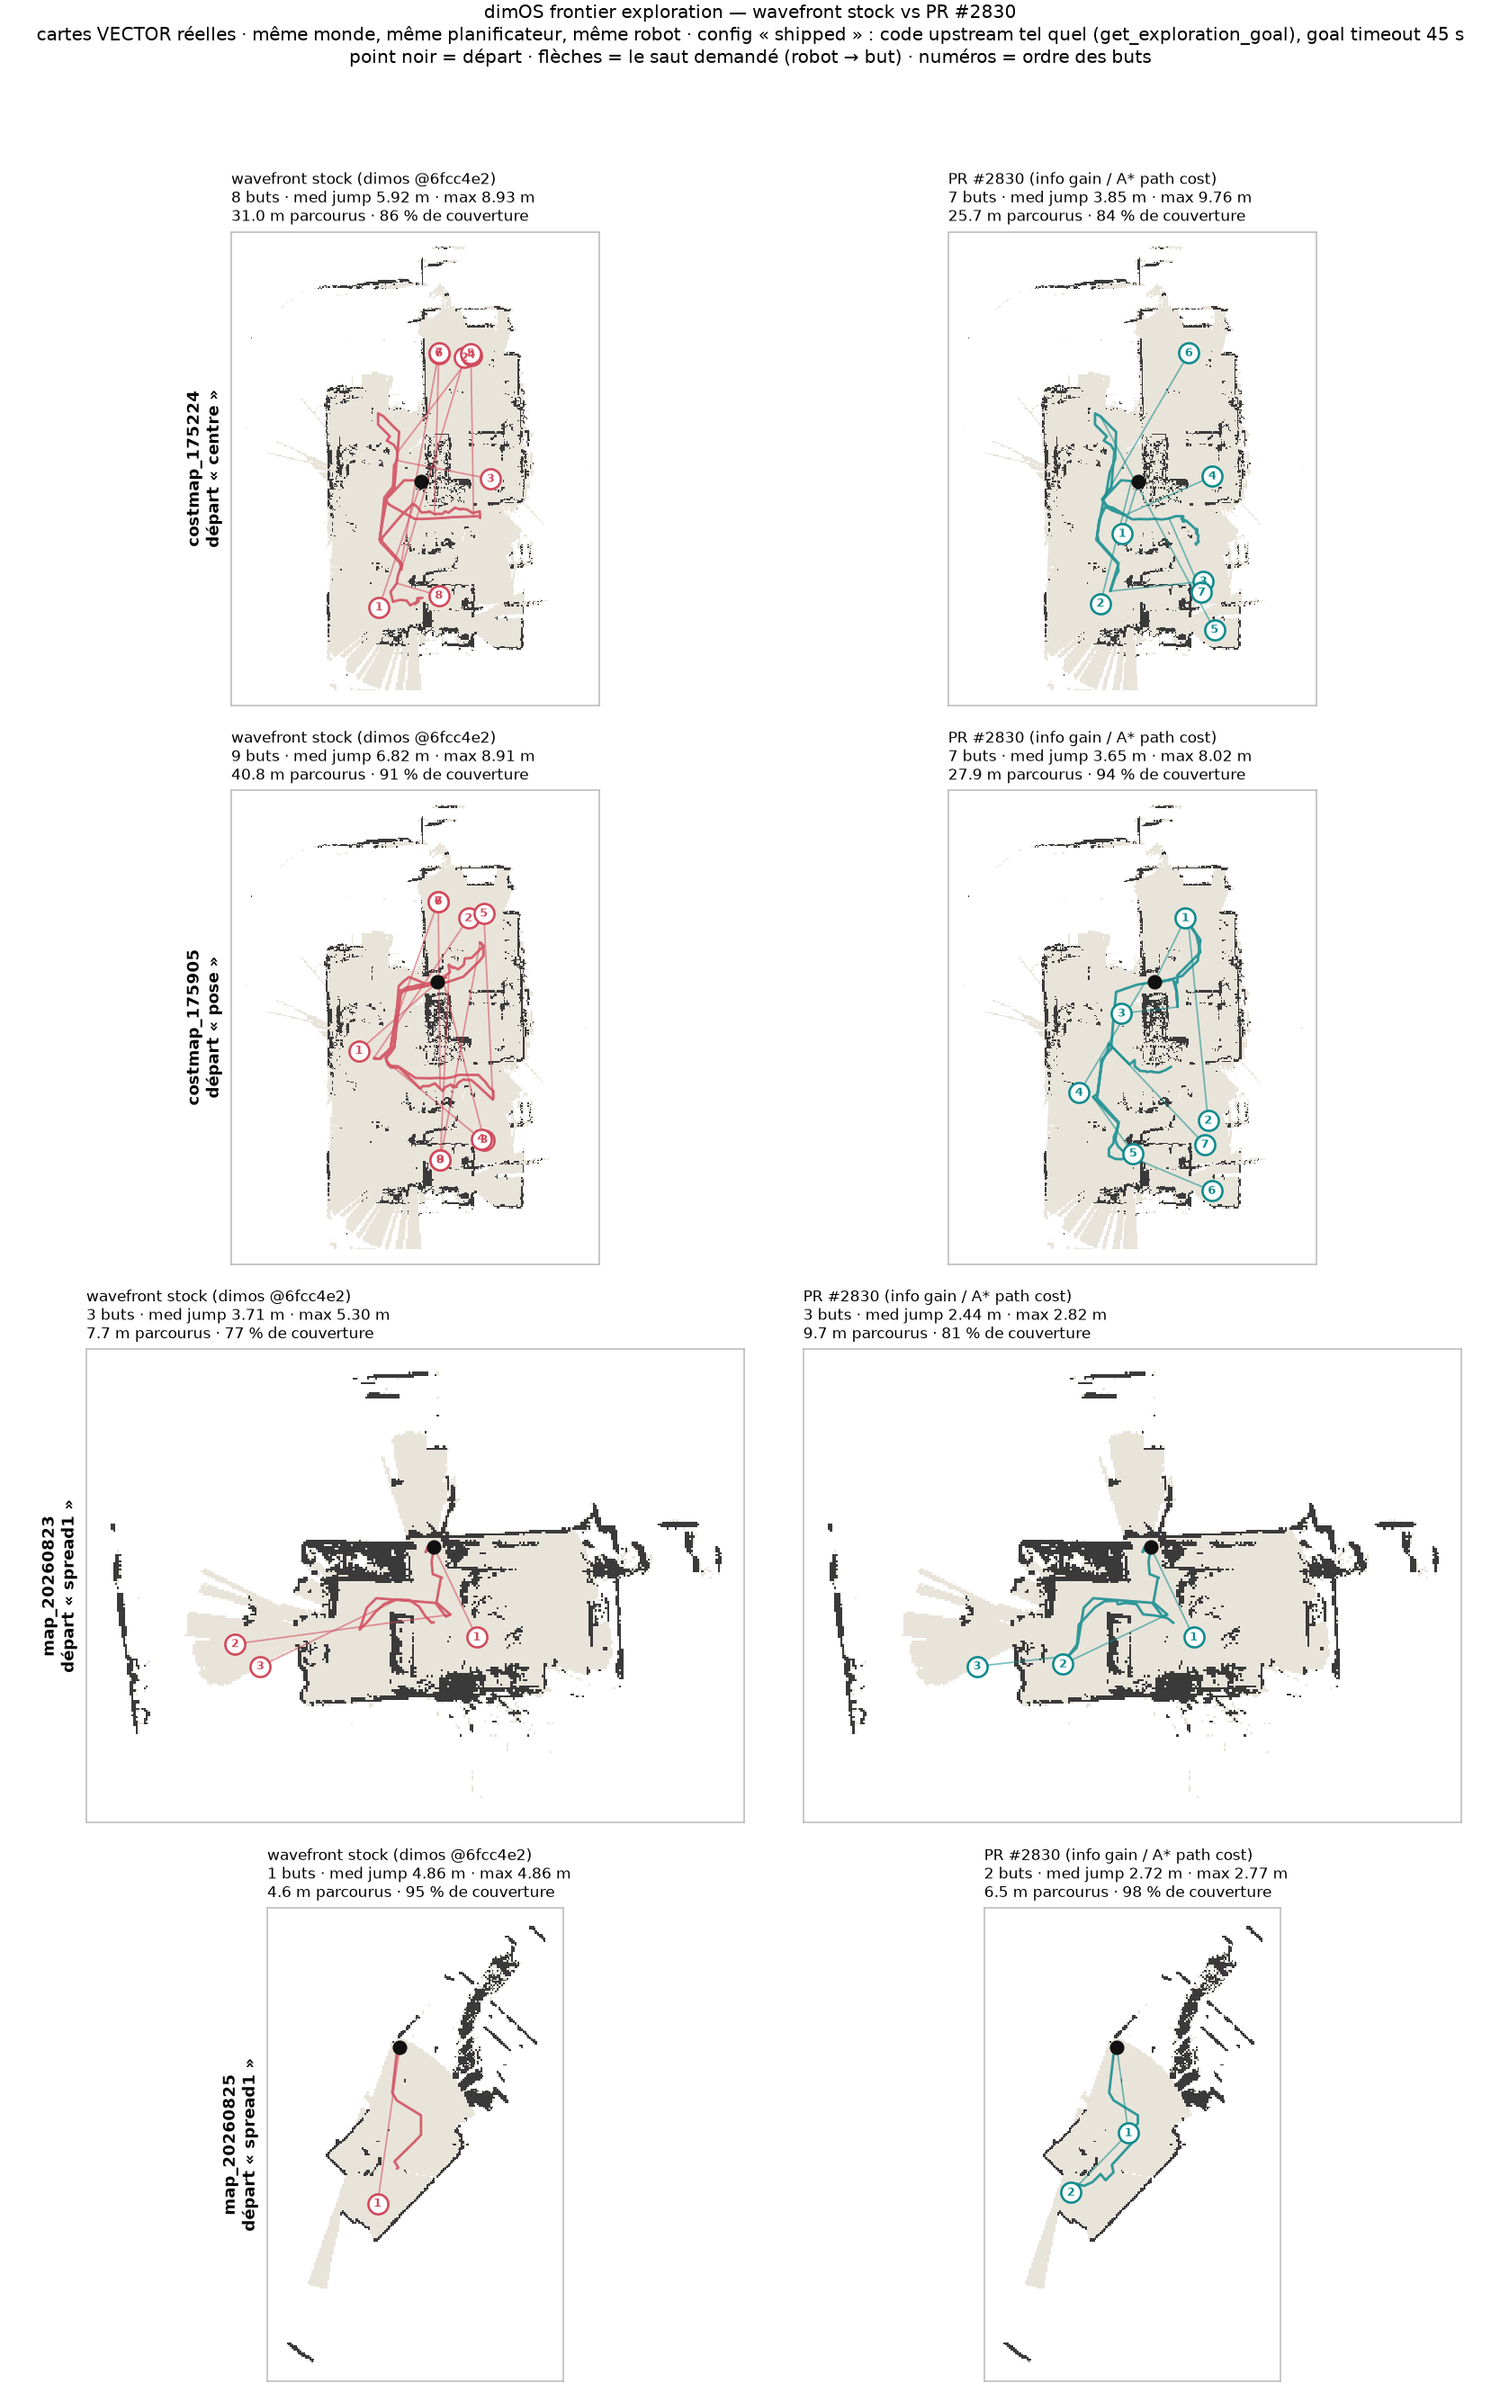
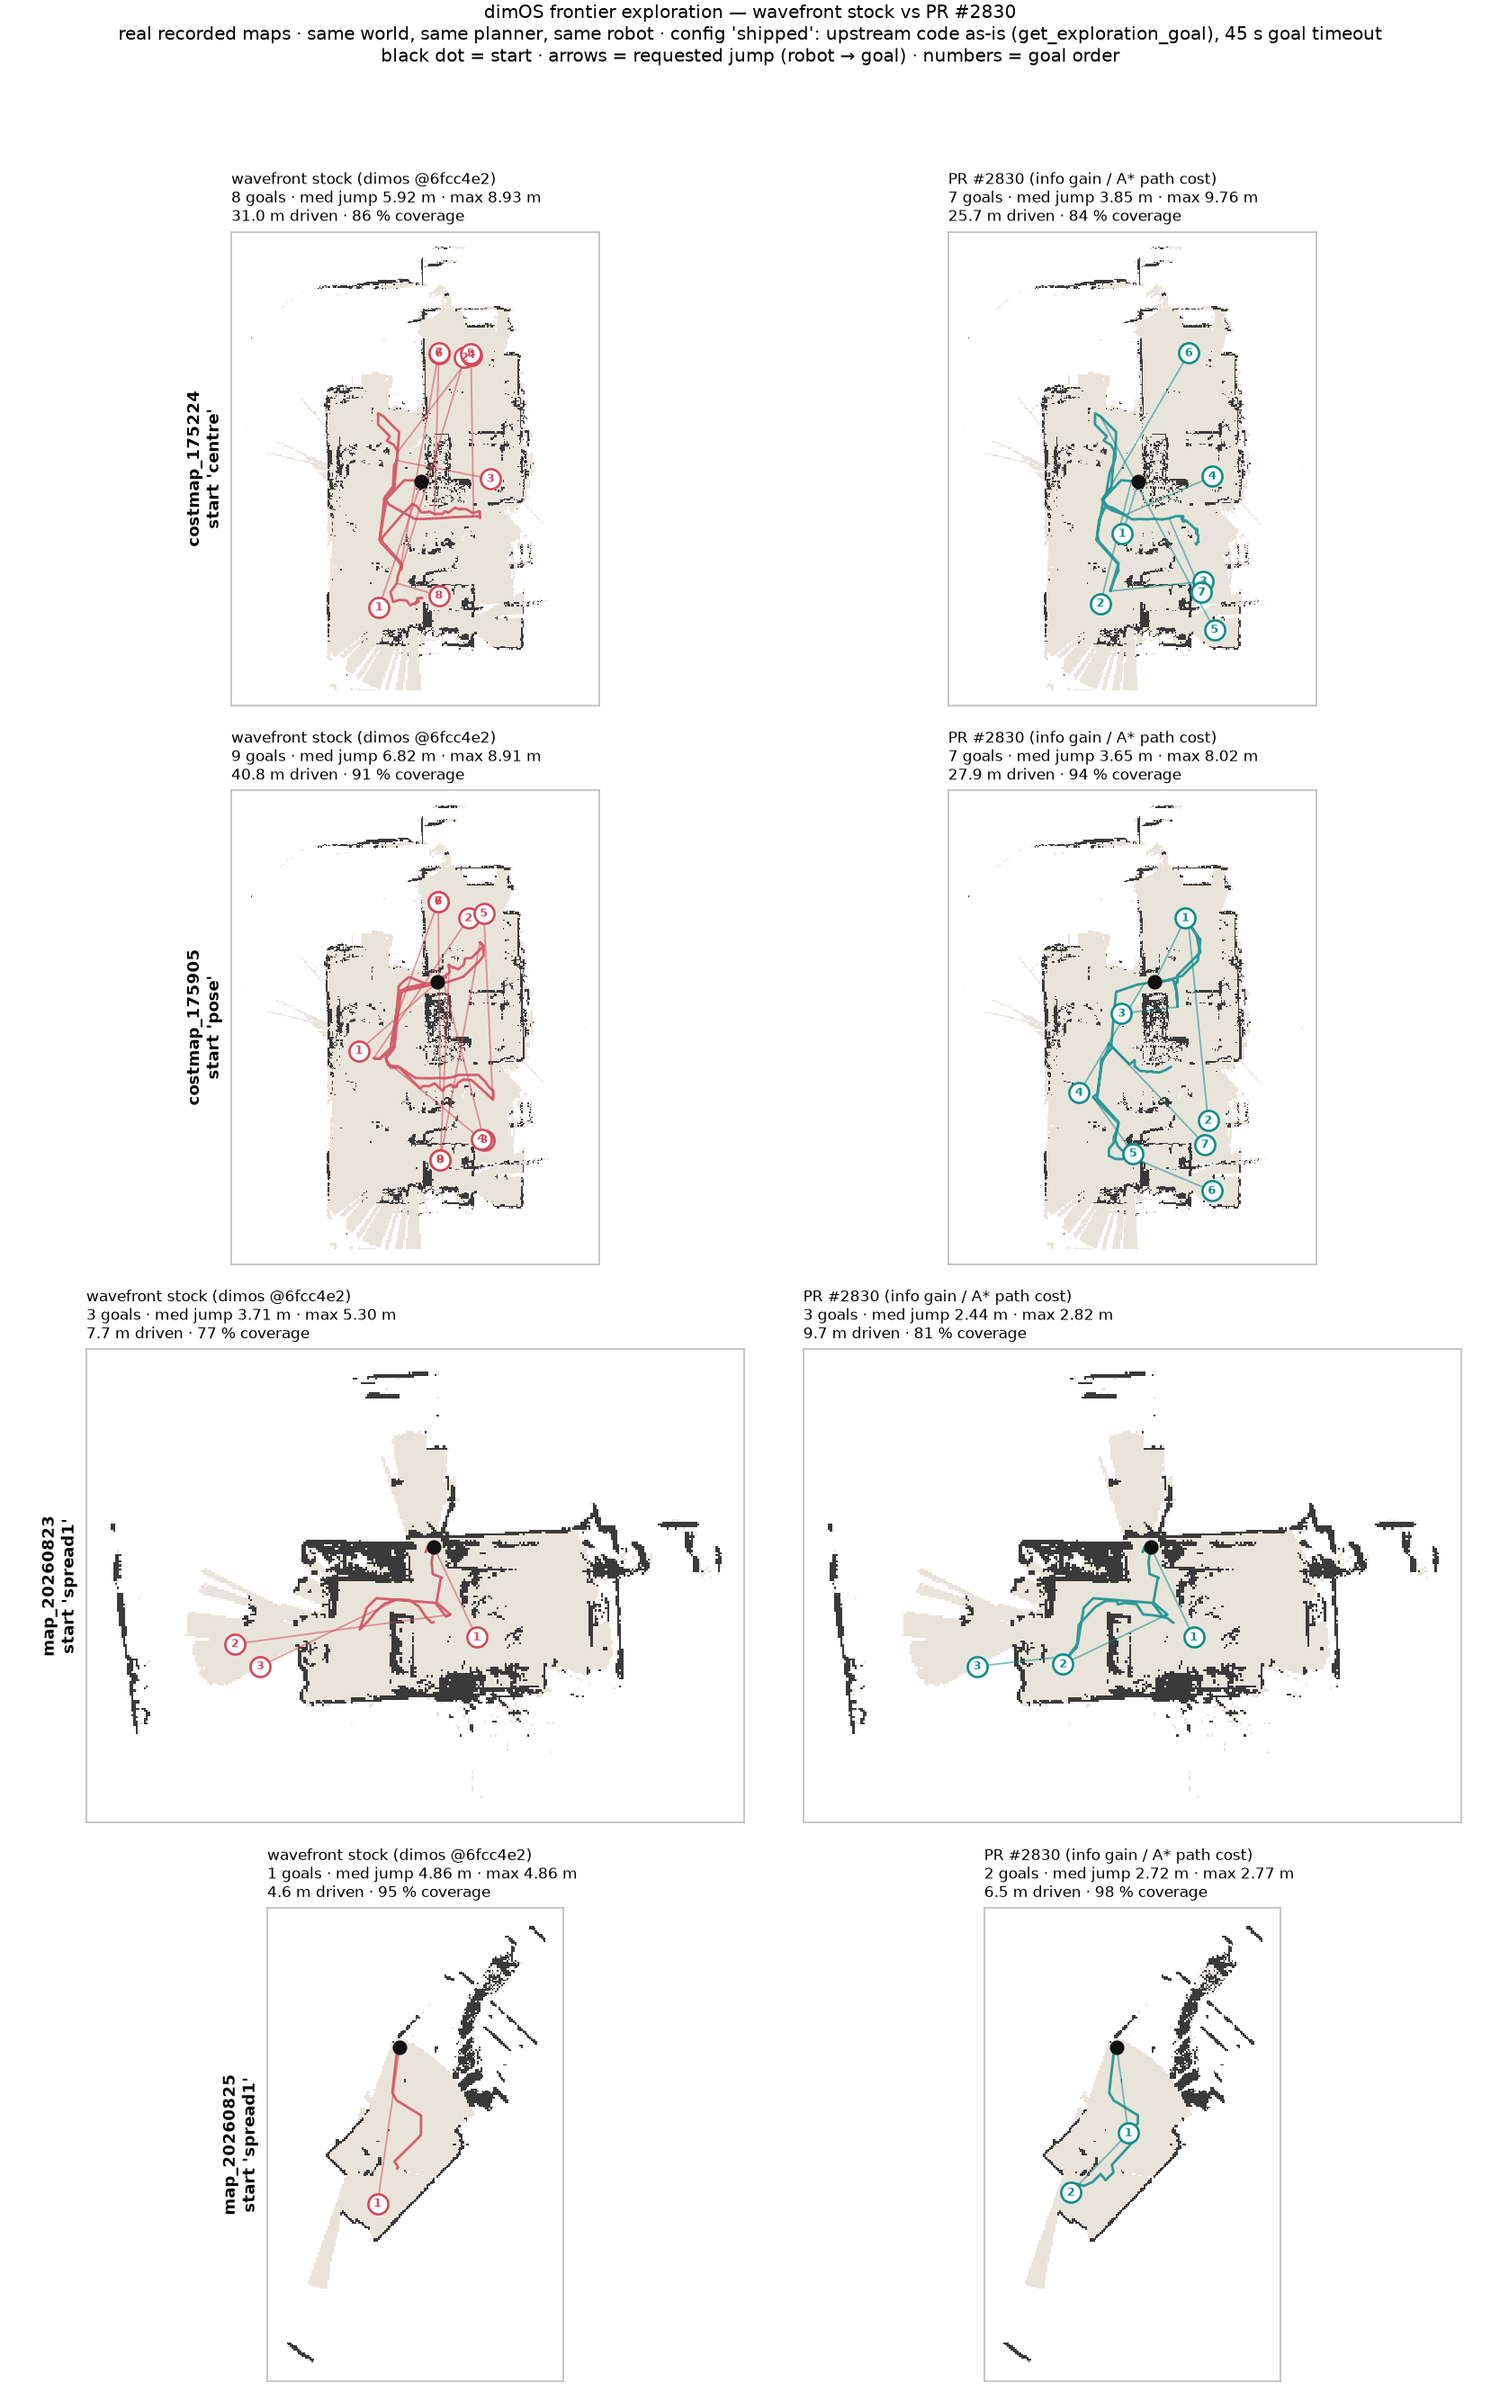
benchmarks/pr2830: figures re-rendered with English labels (they were French), plot scripts translated

diff --git a/benchmarks/pr2830/plot_bancs.py b/benchmarks/pr2830/plot_bancs.py
@@ -101,8 +101,8 @@ def panel_title(res):
     s = res["summary"]
     dm = s["d_robot_to_goal_median_m"]
     return (f"{ARM_LABEL[s['arm']]}\n"
-            f"{s['n_goals']} buts · med jump {dm:.2f} m · max {s['d_robot_to_goal_max_m']:.2f} m\n"
-            f"{s['path_m']:.1f} m parcourus · {s['coverage_pct']:.0f} % de couverture")
+            f"{s['n_goals']} goals · med jump {dm:.2f} m · max {s['d_robot_to_goal_max_m']:.2f} m\n"
+            f"{s['path_m']:.1f} m driven · {s['coverage_pct']:.0f} % coverage")
 
 
 def main(argv=None):
@@ -142,9 +142,9 @@ def main(argv=None):
     # ---- bancs.png / bancs_scoring.png : one row per map ------------------
     for config, fname, blurb in (
             ("shipped", "bancs.png",
-             "code upstream tel quel (get_exploration_goal), goal timeout 45 s"),
+             "upstream code as-is (get_exploration_goal), 45 s goal timeout"),
             ("scoring", "bancs_scoring.png",
-             "le scoring seul : pas d'auto-arrêt, pas de goal timeout, filtre de but raté maison")):
+             "scoring only: no self-stop, no goal timeout, our failed-goal filter")):
         rows = [(m, best_start(m, config)) for m in maps]
         rows = [(m, st) for m, st in rows if st]
         fig, axes = plt.subplots(len(rows), 2, figsize=(11.5, 4.6 * len(rows)))
@@ -153,12 +153,12 @@ def main(argv=None):
             for j, arm in enumerate(("stock", "pr2830")):
                 draw_run(axes[i, j], worlds[m], pick(m, st, config, arm),
                          panel_title(pick(m, st, config, arm)))
-            axes[i, 0].set_ylabel(f"{m}\ndépart « {st} »", fontsize=9, fontweight="bold")
+            axes[i, 0].set_ylabel(f"{m}\nstart '{st}'", fontsize=9, fontweight="bold")
         fig.suptitle("dimOS frontier exploration — wavefront stock vs PR #2830\n"
-                     "cartes VECTOR réelles · même monde, même planificateur, même robot · "
-                     f"config « {config} » : {blurb}\n"
-                     "point noir = départ · flèches = le saut demandé (robot → but) · "
-                     "numéros = ordre des buts",
+                     "real recorded maps · same world, same planner, same robot · "
+                     f"config '{config}': {blurb}\n"
+                     "black dot = start · arrows = requested jump (robot → goal) · "
+                     "numbers = goal order",
                      fontsize=10, y=0.999)
         fig.tight_layout(rect=(0, 0, 1, 0.975))
         fig.savefig(os.path.join(HERE, fname), dpi=145)
@@ -179,9 +179,9 @@ def main(argv=None):
                     axes[i, j].axis("off")
                     continue
                 draw_run(axes[i, j], worlds[m], r, panel_title(r))
-            axes[i, 0].set_ylabel(f"départ « {st} »", fontsize=9, fontweight="bold")
-        fig.suptitle(f"{m} — wavefront stock (gauche) vs PR #2830 (droite), "
-                     f"config « {config} », les 5 poses de départ", fontsize=11)
+            axes[i, 0].set_ylabel(f"start '{st}'", fontsize=9, fontweight="bold")
+        fig.suptitle(f"{m}: wavefront stock (left) vs PR #2830 (right), "
+                     f"config '{config}', all start poses", fontsize=11)
         fig.tight_layout(rect=(0, 0, 1, 0.99))
         fig.savefig(os.path.join(HERE, f"banc_{m}.png"), dpi=140)
         plt.close(fig)
@@ -205,14 +205,14 @@ def main(argv=None):
                         alpha=0.75, lw=1.3, label=ARM_LABEL[arm] if first else None)
                 first = False
         ax.set_title(m, fontsize=9)
-        ax.set_xlabel("chemin parcouru (m)", fontsize=8)
+        ax.set_xlabel("path driven (m)", fontsize=8)
         if k == 0:
-            ax.set_ylabel("couverture (% du plafond visible)", fontsize=8)
+            ax.set_ylabel("coverage (% of visible ceiling)", fontsize=8)
         ax.grid(alpha=0.25, lw=0.5)
         ax.tick_params(labelsize=7)
     axes[0, 0].legend(fontsize=7, loc="lower right")
-    fig.suptitle("Couverture en fonction du chemin — un trait par pose de départ, "
-                 "config « scoring » (chaque bras paie le trajet que ses choix coûtent)",
+    fig.suptitle("Coverage vs path, one line per start pose, "
+                 "config 'scoring' (each arm pays the path its choices cost)",
                  fontsize=10)
     fig.tight_layout(rect=(0, 0, 1, 0.94))
     fig.savefig(os.path.join(HERE, "couverture.png"), dpi=145)

diff --git a/benchmarks/pr2830/apercu_carte.py b/benchmarks/pr2830/apercu_carte.py
@@ -1,0 +1,82 @@
+#!/usr/bin/env python3
+"""Draw the extracted map + the Go2's own trajectory, so the input is looked at
+before it is used. Writes carte_bigoffice.png."""
+
+from __future__ import annotations
+
+import importlib.util
+import os
+import sqlite3
+import sys
+
+import matplotlib
+matplotlib.use("Agg")
+import matplotlib.pyplot as plt  # noqa: E402
+import numpy as np  # noqa: E402
+from matplotlib.colors import ListedColormap  # noqa: E402
+from scipy import ndimage  # noqa: E402
+
+HERE = os.path.dirname(os.path.abspath(__file__))
+SCRATCH = os.path.dirname(HERE)
+DB = os.path.join(SCRATCH, "go2_bigoffice_work.db")
+
+
+def _import_explore_sim():
+    spec = importlib.util.spec_from_file_location(
+        "explore_sim", "/home/openclaw/vector-dimos/tools/explore_sim.py")
+    m = importlib.util.module_from_spec(spec)
+    sys.modules["explore_sim"] = m
+    spec.loader.exec_module(m)
+    return m
+
+
+ES = _import_explore_sim()
+CMAP = ListedColormap(["#ffffff", "#e9e4da", "#3a3a3a", "#7fbf7f"])
+
+
+def odom_xy():
+    conn = sqlite3.connect(f"file:{DB}?mode=ro", uri=True)
+    rows = conn.execute("select pose_x, pose_y from odom order by ts").fetchall()
+    conn.close()
+    return np.asarray(rows, dtype=float)
+
+
+def main(npz=None, out=None):
+    npz = npz or os.path.join(SCRATCH, "bigoffice.npz")
+    out = out or os.path.join(HERE, "carte_bigoffice.png")
+    world = ES.load_world(npz, None, unknown_is_wall=True)
+    res = world.res
+    ok = (world.truth == ES.FREE) & (world.clearance + 1e-6 >= ES.BODY_HALF_WIDTH_M)
+    labels, n = ndimage.label(ok, structure=ES._EIGHT)
+    sizes = ndimage.sum(ok, labels, index=np.arange(1, n + 1))
+    body = labels == (int(np.argmax(sizes)) + 1)
+
+    img = np.zeros(world.truth.shape, dtype=np.uint8)
+    img[world.observed & (world.truth != ES.OCCUPIED)] = 1
+    img[world.truth == ES.OCCUPIED] = 2
+    img[~world.observed] = 0
+    img[body] = 3
+
+    h, w = world.truth.shape
+    extent = (world.ox, world.ox + w * res, world.oy, world.oy + h * res)
+    fig, ax = plt.subplots(figsize=(8.5, 11))
+    ax.imshow(img, origin="lower", extent=extent, cmap=CMAP, vmin=0, vmax=3,
+              interpolation="nearest")
+    p = odom_xy()
+    ax.plot(p[:, 0], p[:, 1], "-", color="#0f5fd8", lw=1.2, alpha=0.9,
+            label="Go2 trajectory (odom, 5465 poses)")
+    ax.plot(p[0, 0], p[0, 1], "o", color="#111", ms=7)
+    ax.set_aspect("equal")
+    ax.legend(fontsize=8, loc="lower left")
+    ax.set_title(f"go2_bigoffice, extracted map ({w}x{h} @ {res} m = "
+                 f"{w * res:.1f} x {h * res:.1f} m)\n"
+                 f"blanc = jamais observe · beige = libre · gris = occupe · "
+                 f"vert = sol praticable connexe pour un corps de 0.46 m "
+                 f"({body.sum() * res * res:.0f} m2)", fontsize=9)
+    fig.tight_layout()
+    fig.savefig(out, dpi=130)
+    print(f"-> {out}")
+
+
+if __name__ == "__main__":
+    main(*sys.argv[1:])
